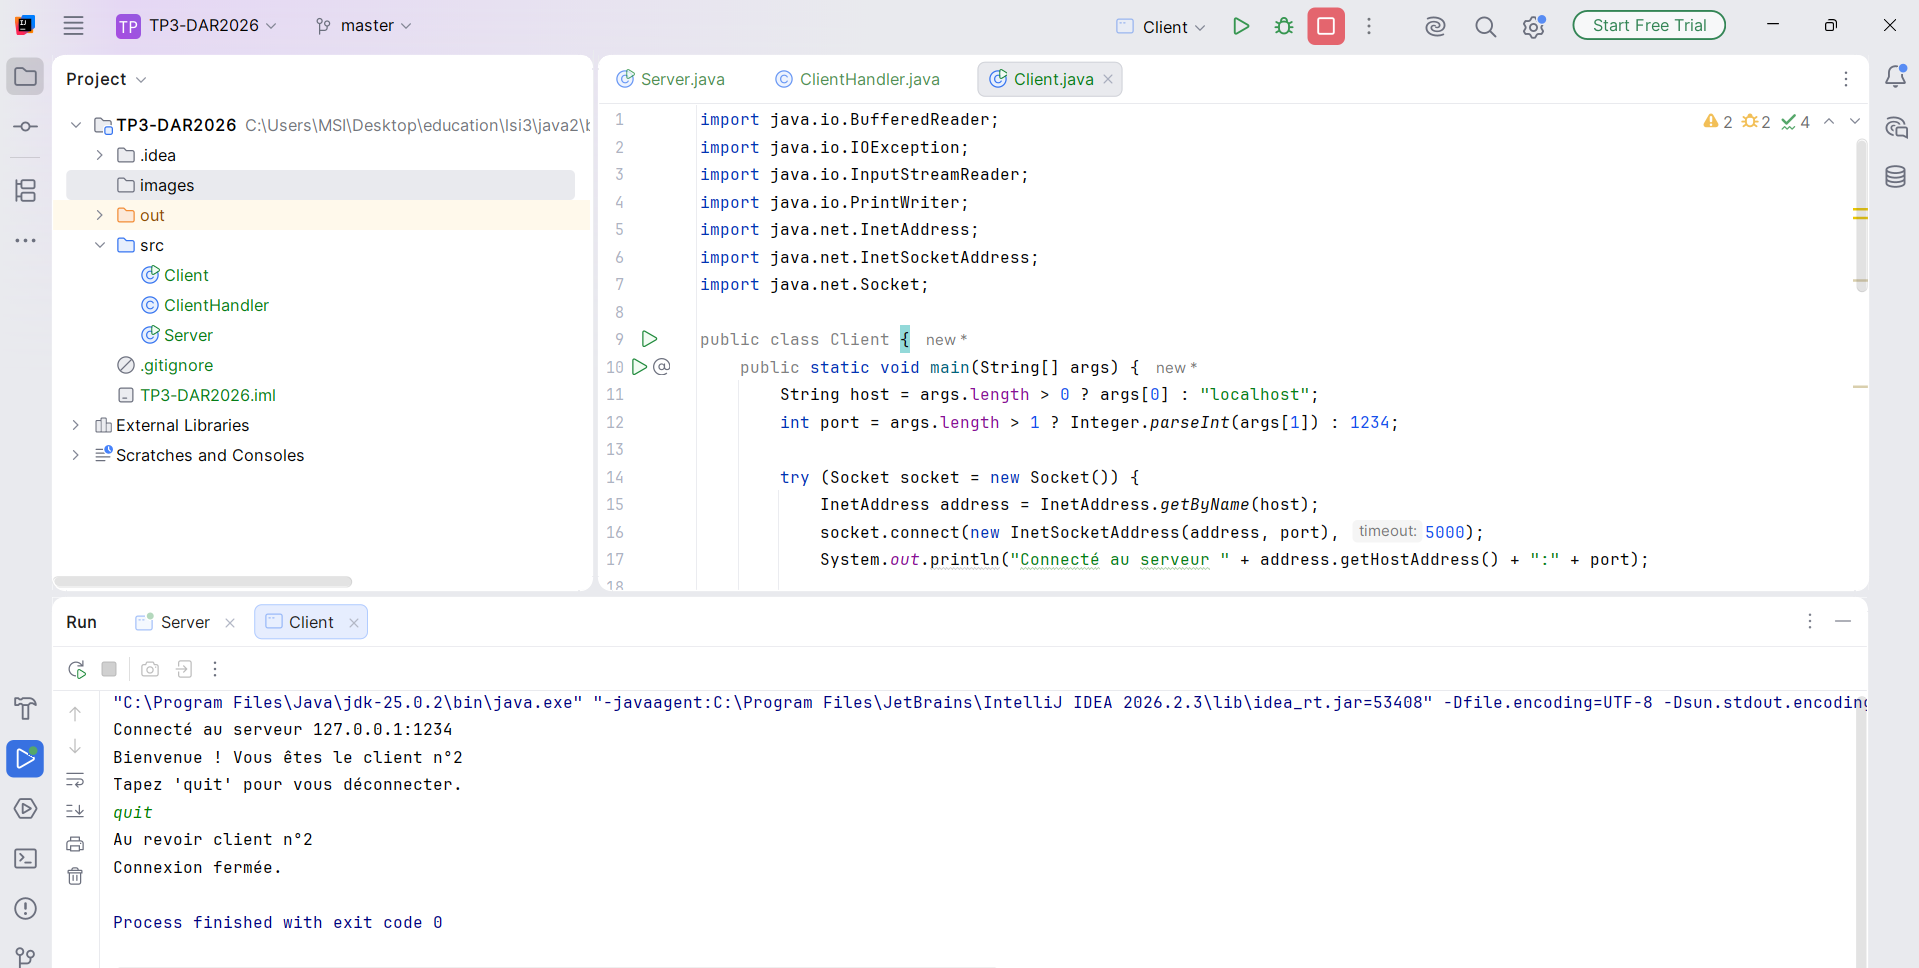
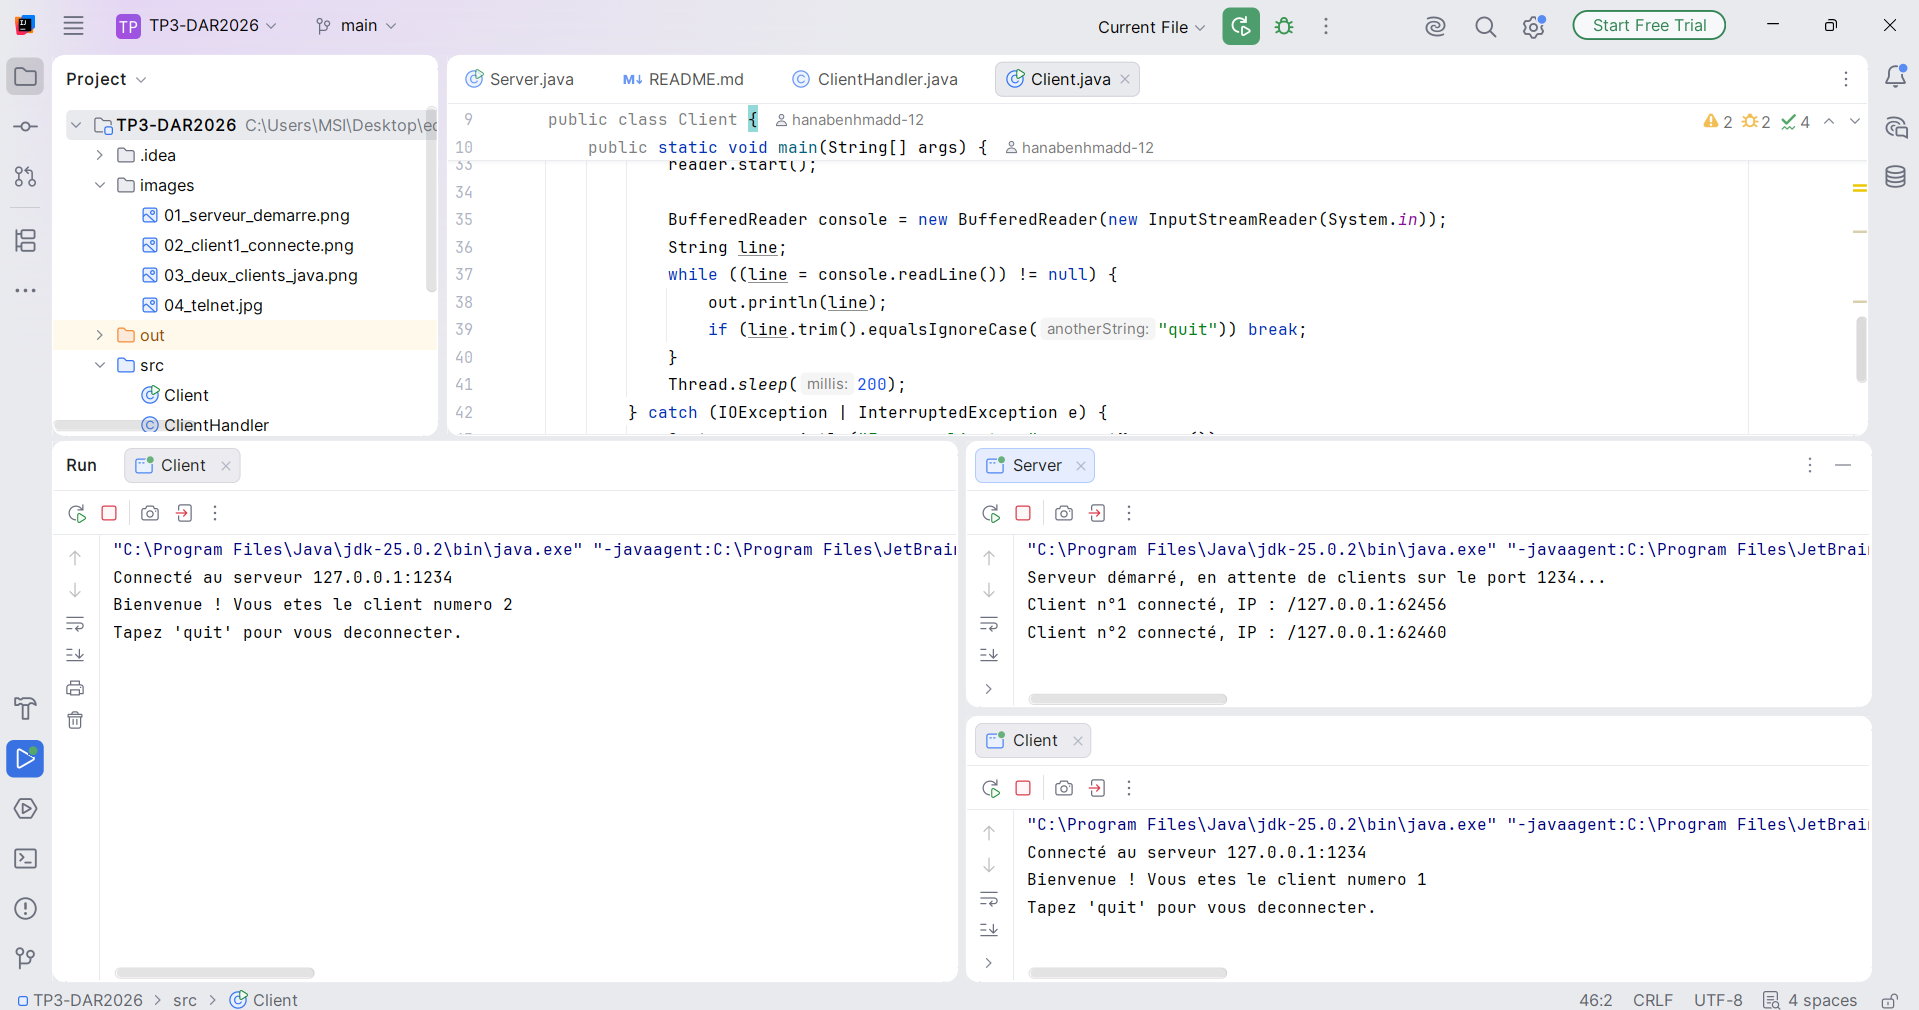
TP3 - README final et captures reseau

diff --git a/README.md b/README.md
@@ -10,8 +10,9 @@
 | **Étudiante** | Hana Ben Hmad |
 | **Enseignante des TPs** | Zeineb Daoud |
 | **Responsable du cours** | Amal Abid |
-| **Langage** | Java (JDK 25) |
+| **Langage** | Java (JDK 25, compatible JDK 8+) |
 | **Environnement** | IntelliJ IDEA |
+| **Répertoire de travail** | `benhmadhana_LSI3_DevAppReparties` |
 
 ---
 
@@ -48,6 +49,7 @@ TP3-DAR2026/
 │   ├── ClientHandler.java   # Thread de communication avec un client
 │   └── Client.java          # Client Java TCP
 ├── images/                  # Captures d'écran des tests
+├── .gitignore
 └── README.md
 ```
 
@@ -55,7 +57,7 @@ TP3-DAR2026/
 |---|---|
 | `Server` | Écoute sur le port **1234**, accepte les connexions, incrémente le compteur de clients, affiche l'IP du client via `getRemoteSocketAddress()` et lance un `ClientHandler` |
 | `ClientHandler` | Hérite de `Thread`. Envoie le numéro d'ordre au client, puis renvoie en écho chaque message reçu. La commande `quit` ferme la session |
-| `Client` | Se connecte au serveur (`localhost:1234` par défaut, ou IP et port passés en arguments) et gère l'envoi et la réception en parallèle |
+| `Client` | Se connecte au serveur (`localhost:1234` par défaut, ou IP et port passés en arguments) avec `InetAddress` et `InetSocketAddress`, et gère l'envoi et la réception en parallèle |
 
 ---
 
@@ -73,6 +75,32 @@ TP3-DAR2026/
 3. Le thread `ClientHandler` dialogue avec son client, ce qui libère le serveur pour accepter immédiatement le client suivant.
 4. Les clients sont traités indépendamment : un client lent ou bloqué n'empêche pas les autres de communiquer.
 
+**Boucle principale du serveur (`Server.java`) :**
+
+```java
+Socket socket = serverSocket.accept();
+clientCount++;
+System.out.println("Client n°" + clientCount + " connecté, IP : "
+        + socket.getRemoteSocketAddress());
+new ClientHandler(socket, clientCount).start();
+```
+
+**Connexion du client avec une adresse IP paramétrable (`Client.java`) :**
+
+```java
+String host = args.length > 0 ? args[0] : "localhost";
+int port = args.length > 1 ? Integer.parseInt(args[1]) : 1234;
+
+InetAddress address = InetAddress.getByName(host);
+socket.connect(new InetSocketAddress(address, port), 5000);
+```
+
+**Message envoyé à chaque client (`ClientHandler.java`) :**
+
+```java
+out.println("Bienvenue ! Vous etes le client numero " + clientNumber);
+```
+
 ---
 
 ## 4. Compilation et exécution
@@ -82,19 +110,20 @@ TP3-DAR2026/
 ```bash
 # Compilation
 cd src
-javac *.java
+javac -encoding UTF-8 *.java
 
 # 1. Lancer le serveur
 java Server
 
 # 2. Lancer un ou plusieurs clients Java (autres terminaux)
 java Client                       # serveur local (localhost:1234)
-java Client 192.168.1.20 1234     # serveur distant (IP et port)
+java Client 192.168.1.17 1234     # serveur désigné par son IP et son port
 
 # 3. Ou utiliser Telnet
 telnet localhost 1234
 ```
 
+Pour afficher correctement les accents dans la console Windows, lancer `chcp 65001` avant `java`.
 Pour se déconnecter, taper `quit` dans le client.
 
 ---
@@ -121,6 +150,30 @@ Deux clients Telnet sont connectés simultanément au serveur (`telnet localhost
 
 ![Clients Telnet](images/04_telnet.jpg)
 
+### 5.5 Test avec l'adresse IP réseau
+Faute de seconde machine physique, le test a été réalisé sur une seule machine en utilisant son adresse IP réseau (`192.168.1.17`, obtenue avec `ipconfig`) à la place de `localhost`, avec plusieurs clients Java et un client Telnet simultanés :
+
+```
+java Client 192.168.1.17 1234
+telnet 192.168.1.17 1234
+```
+
+Le serveur affiche l'adresse IP réelle des clients (`/192.168.1.17:port`) et non plus `[0:0:0:0:0:0:0:1]`, avec leur numéro d'ordre.
+
+**Côté serveur** (trois clients connectés simultanément) :
+
+![Serveur - connexions par IP réseau](images/05_reseau_serveur.png)
+
+**Client Java** (client n°2) :
+
+![Client Java - IP réseau](images/06_reseau_client.png)
+
+**Client Telnet** (client n°3) :
+
+![Client Telnet - IP réseau](images/07_reseau_telnet_ip.png)
+
+> **Limite :** un test avec une seconde machine physique (téléphone ou autre PC) n'a pas pu être finalisé : la connexion a été bloquée par la configuration du réseau et du pare-feu. Le client Java est néanmoins prêt pour ce scénario grâce à `InetAddress` et `InetSocketAddress` : il suffit de lancer `java Client <IP_du_serveur> 1234`.
+
 ### Récapitulatif
 
 | Test | Résultat |
@@ -130,8 +183,10 @@ Deux clients Telnet sont connectés simultanément au serveur (`telnet localhost
 | Plusieurs clients Telnet simultanés | Réussi |
 | Affichage de l'IP et du numéro d'ordre côté serveur | Réussi |
 | Envoi du numéro d'ordre à chaque client | Réussi |
+| Clients Java et Telnet via l'IP réseau (192.168.1.17) | Réussi |
+| Test avec une seconde machine physique | Non réalisé |
 
-> **Remarque :** en local, l'adresse du client s'affiche en IPv6 (`/[0:0:0:0:0:0:0:1]:port`), ce qui correspond à `localhost`.
+> **Remarque :** en local (`localhost`), l'adresse du client s'affiche en IPv6 (`/[0:0:0:0:0:0:0:1]:port`). Avec l'IP réseau, elle s'affiche en IPv4 (`/192.168.1.17:port`).
 
 ---
 
@@ -139,11 +194,12 @@ Deux clients Telnet sont connectés simultanément au serveur (`telnet localhost
 
 Dans cette activité, j'ai transformé le serveur mono-client en **serveur multi-threads**. Le serveur boucle sur `accept()` et, pour chaque connexion, incrémente un compteur et crée un thread `ClientHandler` qui dialogue avec ce client. Les clients sont ainsi traités simultanément, sans se bloquer les uns les autres.
 
-Côté serveur, l'adresse IP de chaque client est affichée avec `getRemoteSocketAddress()`, ainsi que son numéro d'ordre de connexion. Chaque client reçoit également son numéro d'ordre.
+Côté serveur, l'adresse IP de chaque client est affichée avec `getRemoteSocketAddress()`, ainsi que son numéro d'ordre de connexion. Chaque client reçoit également son numéro d'ordre. Le compteur `clientCount` n'est modifié que par le thread principal (celui de `accept()`), il n'y a donc pas d'accès concurrent à cette variable.
 
-Les tests locaux avec plusieurs clients Java et plusieurs clients Telnet ont confirmé le bon fonctionnement du serveur. Le client Java utilise `InetAddress` et `InetSocketAddress`, ce qui permet de cibler l'adresse IP d'un serveur distant sur le réseau local.
+Les tests locaux avec plusieurs clients Java et plusieurs clients Telnet ont confirmé le bon fonctionnement du serveur. Le client Java utilise `InetAddress` et `InetSocketAddress`, ce qui permet de cibler l'adresse IP d'un serveur. Le test avec l'adresse IP réseau de la machine (`192.168.1.17`) montre que le serveur reçoit bien des connexions autres que `localhost` et identifie les clients par leur adresse réelle.
 
 **Points d'attention rencontrés :**
 - Telnet n'est pas activé par défaut sous Windows et doit être activé dans les fonctionnalités Windows.
-- Les caractères accentués s'affichaient mal dans la console `cmd` (encodage). Les messages envoyés par le serveur aux clients ont donc été écrits sans accents.
-- Pour un test entre plusieurs machines, le port 1234 doit être autorisé dans le pare-feu de la machine serveur.
+- Les caractères accentués s'affichaient mal dans la console `cmd` (encodage). Les messages envoyés par le serveur aux clients ont donc été écrits sans accents, et la commande `chcp 65001` est utilisée pour l'affichage console.
+- Un seul serveur peut utiliser le port 1234 à la fois : lancer un second serveur provoque l'erreur `Address already in use: bind`.
+- Pour un test entre plusieurs machines, le réseau Wi-Fi doit être en profil « Privé » et le port 1234 doit être autorisé dans le pare-feu de la machine serveur (règle `netsh advfirewall`, à créer dans un terminal administrateur). Certains routeurs isolent aussi les appareils Wi-Fi entre eux, ce qui peut bloquer la connexion.
